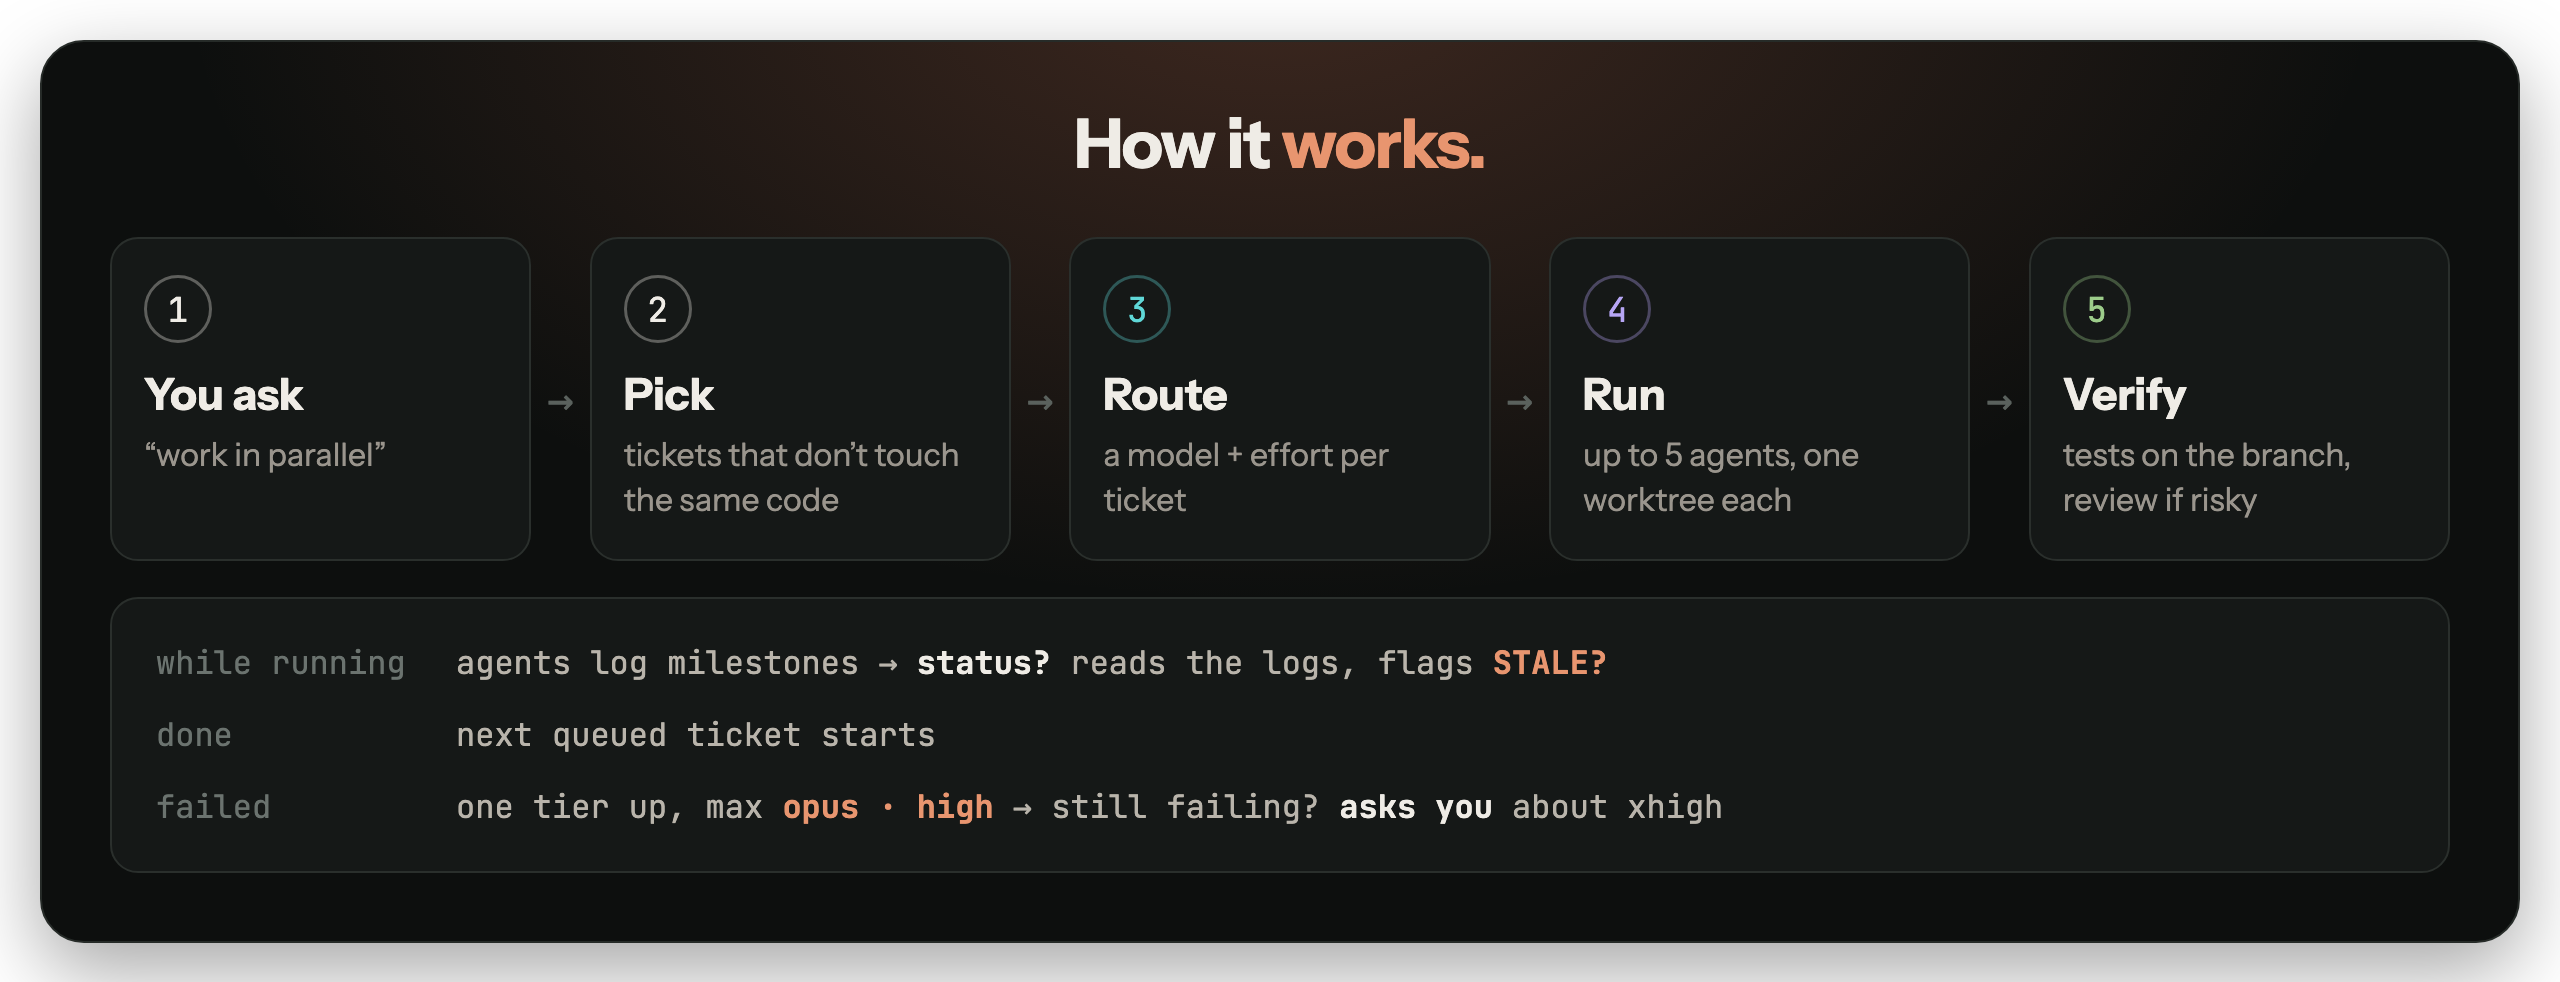
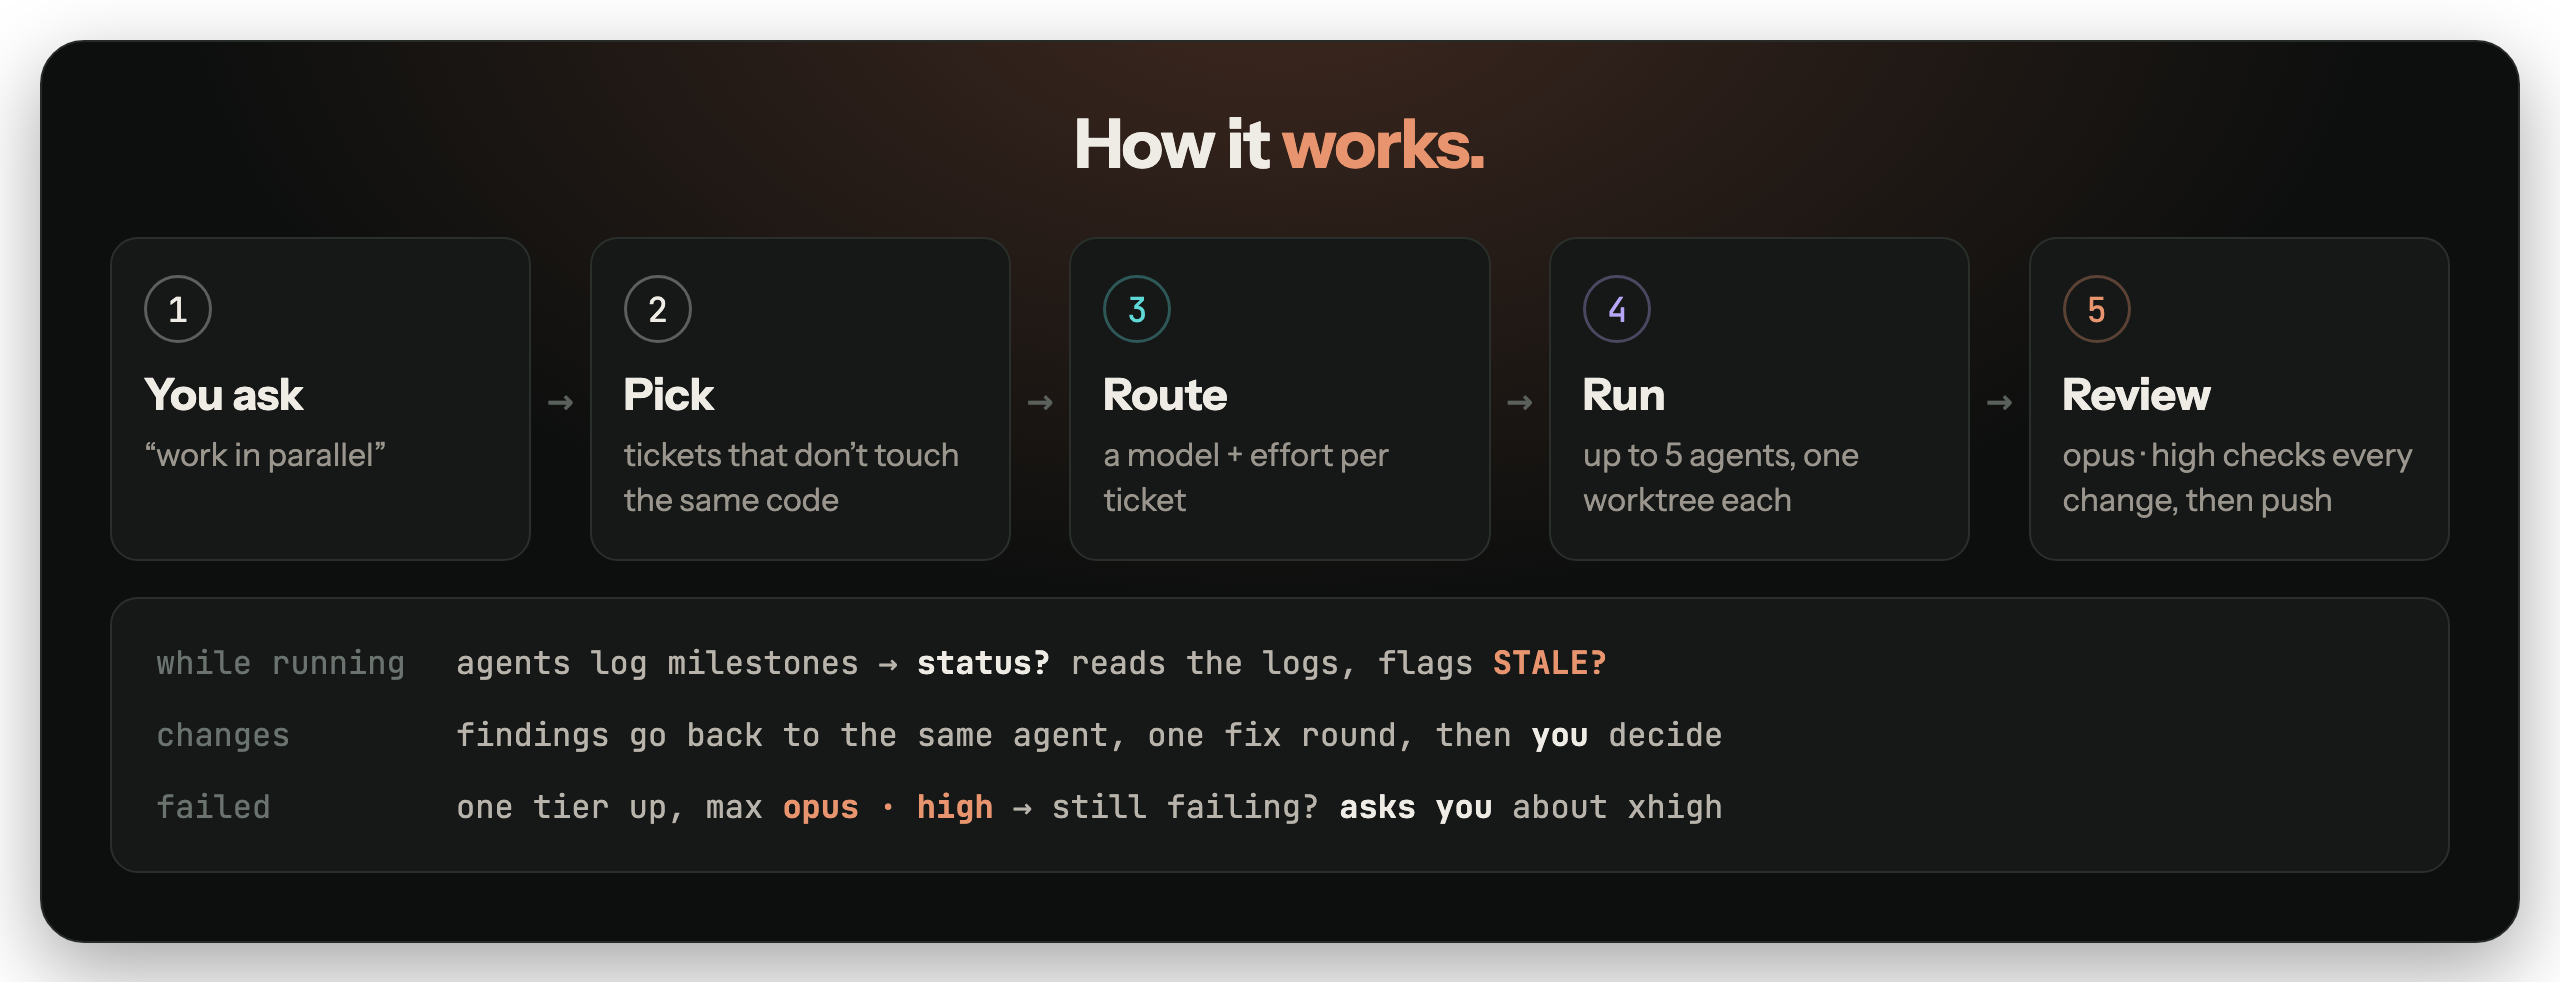
Add opus/high review step and parallel-implementer / parallel-reviewer agent types
- Every code-changing ticket (except haiku-tier) gets a fresh opus/high reviewer
  that sees only the acceptance criteria and the diff
- Findings go back to the original implementer for one fix round; a second
  CHANGES stops and asks the user
- Implementers never push; the main session ships after PASS
- Ships agents/parallel-implementer.md and agents/parallel-reviewer.md (read-only)
- README: review rows, agent types, install step, no release badge

diff --git a/SKILL.md b/SKILL.md
@@ -28,11 +28,12 @@ This skill is your explicit instruction to set `model` and `effort` on every Age
 | Clear spec but tricky logic, many files, or unfamiliar subsystem | `sonnet` | `high` |
 | Ambiguous spec, design/architecture, cross-cutting refactor, security, concurrency, data migration, **unknown root cause** | `opus` | `high` |
 | Already failed once at a lower tier | one tier up (`haiku`→`sonnet`→`opus`, up to `high`) | |
-| Reviewing a finished agent's diff | `sonnet` `high` (`opus` `high` if risky) | |
+| Reviewing a finished agent's diff (see section 5) | `opus` | `high` |
 
 - **`xhigh` and `max` need the user's explicit yes, every time.** They cost several times more tokens, and a failed `opus`/`high` run usually means the ticket is unclear, not that more thinking is needed. Propose it in one line (what failed, what the agent learned, why you think xhigh would help, or what question the user could answer instead). Keep the other tickets moving while you wait. Never escalate past `opus`/`high` on your own.
 - When unsure between two rows, take the higher one. A failed cheap run costs more than one right-sized run.
-- Never use `subagent_type: "fork"` for routed work: forks ignore `model` and `effort`. Use `general-purpose` with a full brief.
+- **Agent types:** implementers use `subagent_type: "parallel-implementer"` and reviewers use `"parallel-reviewer"` (read-only). Both ship in this skill's `agents/` folder. If they aren't in your available agent types, use `general-purpose` with the same briefs, and tell the user once: `mkdir -p ~/.claude/agents && ln -sf <this skill's base dir>/agents/*.md ~/.claude/agents/` (restart Claude Code if that folder is new).
+- Always pass `model` and `effort` on the call: they override the agent file's defaults. Never use `subagent_type: "fork"` for routed work: forks ignore `model` and `effort`.
 
 Before dispatching, show the user the plan as a table:
 
@@ -60,11 +61,11 @@ For each agent, write the log header **before** dispatching it (slug = `<issue>-
 echo "# ticket=#42 model=sonnet effort=medium dispatched=$(date +%H:%M)" > "$ROOT/.parallel-work/agents/42-orders-pagination.log"
 ```
 
-Send all agents of the batch in **one message** (they run in the background automatically), each with `subagent_type: "general-purpose"`, `model`, `effort`, and `isolation: "worktree"` for code-writing agents. Every brief contains these parts, in order:
+Send all agents of the batch in **one message** (they run in the background automatically), each with `subagent_type: "parallel-implementer"`, `model`, `effort`, and `isolation: "worktree"`. Every brief contains these parts, in order:
 
 1. Goal: issue number, title, the acceptance criteria copied from the issue
 2. Context: relevant files, patterns to follow, what is already ruled out, which paths other agents own (hands off)
-3. Done means: tests pass, committed on branch `issue-<n>-<slug>`. Add "push and open a PR (`Closes #<n>`)" only if the user or CLAUDE.md has asked for PRs. Otherwise the branch is reported ready to push.
+3. Done means: tests pass, committed on branch `issue-<n>-<slug>`. Don't push: the main session pushes after review.
 4. The progress-log block below, with the **absolute** log path filled in
 
 ```
@@ -81,8 +82,31 @@ milestones in your final report instead.
 
 - **Status request** ("status?", "how far are they?"): run `bash <this skill's base dir>/scripts/status.sh` from the main checkout (it finds `.parallel-work/agents` via git; an optional argument overrides the dir). Report from its output: one row per agent with model/effort, state, last update, minutes quiet, plus tickets you did inline or that are queued. Never say "probably" about an agent's progress; the log either shows it or it doesn't.
 - **`STALE?`** (no log line for 15+ minutes): check activity with `git -C <worktree> status --short` and `git -C <worktree> diff --stat`. Changes still appearing: report it as working, just not logging. Nothing for 30+ minutes: tell the user and offer to stop it and re-dispatch one tier up.
-- **On each completion notification:** verify the claim yourself (run the tests on its branch, check the PR exists if one was promised), then give a one-line update plus the status table. For `opus`-tier tickets or large diffs, also dispatch a reviewer (routing table, last row) before calling it done. BLOCKED or FAILED: re-route one tier up and re-dispatch with what was learned.
+- **On each completion notification:** run the tests inside its worktree, and check that `git -C <worktree> diff --stat <base>...HEAD` stays within the ticket's scope (`<base>` = the default branch, from `gh repo view --json defaultBranchRef`). If its own report admits it skipped or changed an acceptance criterion, send it straight back with SendMessage; don't spend a review on a known gap. Give a one-line update plus the status table, then go to section 5. BLOCKED or FAILED: re-route one tier up and re-dispatch with what was learned.
 - When a slot frees up, start the next queued ticket (route it first). When the queue is empty and the user asked to continue, go back to step 1.
+
+## 5. Review, then ship
+
+Every code-changing ticket gets a fresh reviewer at **`opus` · `high`**, no matter which tier implemented it. A cheap implementer plus a strong reviewer saves tokens on the long work without saving them on correctness. Skip review only for `haiku`-tier work (docs, typos): after the scope check, ship it as on PASS.
+
+Don't read the diff yourself: that fills your context and you're biased by the brief you wrote. Dispatch it with `subagent_type: "parallel-reviewer"`, `model: "opus"`, `effort: "high"`. The reviewer counts toward the 5-agent cap, gets its own log (`<slug>-review.log`, header `# ticket=#<n>-review model=opus effort=high`), and needs no worktree. Its brief, in order:
+
+```
+REVIEW #<n> <title>. You review; do not edit files.
+Acceptance criteria: <copied from the issue>
+Diff: git -C <ABS_WORKTREE> diff <base>...HEAD   (branch issue-<n>-<slug>)
+Check: acceptance criteria met, correctness bugs, missing or weak tests,
+changes outside the ticket's scope, security and concurrency issues.
+Reply: first line PASS or CHANGES, then at most 10 findings as
+`file:line: problem; why it matters`. Real defects only, no style nits.
+<progress-log block from section 3, with the review log path>
+```
+
+Give the reviewer the acceptance criteria and the diff, **not** the implementer's summary: it should judge the code, not the story.
+
+- **PASS (ship):** if the user or CLAUDE.md asked for pushes or PRs, push the branch and open the PR (`Closes #<n>`). Otherwise report the branch as ready to push. Either way, then `git worktree remove <worktree>` (the branch and its commits stay).
+- **CHANGES:** send the findings to the **original implementer** with SendMessage (it still has its context), and have it fix, commit and report. Its fix-round lines go in the same log (a line after DONE just shows it as running again). Then send the new commits to the **same reviewer** with SendMessage to re-check.
+- **Any CHANGES on the re-check:** stop and tell the user, with the open findings, the unpushed branch, and the options: they clarify, you re-dispatch the implementer one tier up, or they take it over. No third round without their answer.
 
 ## Common Mistakes
 
@@ -94,3 +118,6 @@ milestones in your final report instead.
 | Answering status from memory | Run `status.sh` first |
 | Two agents editing the same module | Run them one after another |
 | Auto-escalating to `xhigh` after a failure | Ask the user first; often the ticket needs clarifying instead |
+| Reading diffs yourself, or letting the implementer self-review | Dispatch the `opus` · `high` reviewer |
+| Passing the implementer's summary to the reviewer | Acceptance criteria and diff only |
+| Pushing or opening a PR before review passes | Implementers never push; you push after PASS |

diff --git a/README.md b/README.md
@@ -17,7 +17,6 @@
 </p>
 
 <p align="center">
-  <a href="https://github.com/DannyKuk/parallel-work/releases/latest"><img src="https://img.shields.io/github/v/release/DannyKuk/parallel-work?style=flat-square&color=d97757&label=release" alt="Latest release"></a>
   <img src="https://img.shields.io/badge/Claude_Code-skill-5fd7d7?style=flat-square" alt="Claude Code skill">
   <a href="LICENSE"><img src="https://img.shields.io/github/license/DannyKuk/parallel-work?style=flat-square&color=b7a6f5" alt="MIT license"></a>
 </p>
@@ -32,6 +31,7 @@ https://github.com/user-attachments/assets/1b3c2bf0-adda-4631-a1ca-50f1383e6352
 | **A deadlock with no known cause** | The same as the docs ticket | `opus · high` |
 | **"How far are the agents?"** | Nobody knows until they finish | A table from the agents' own logs |
 | **An agent that went quiet** | Goes unnoticed | Flagged `STALE?` after 15 minutes |
+| **Code review** | The agent checks its own work, if anyone does | A fresh `opus · high` reviewer on every code change |
 | **Escalating to `xhigh`** | Up to the session | Only with your yes |
 
 ## Routing
@@ -47,8 +47,9 @@ Before dispatching anything, the main session picks a model and effort level for
 | Clear spec, but tricky logic or many files | `sonnet · high` |
 | Ambiguous spec, architecture, security, concurrency, unknown root cause | `opus · high` |
 | Failed once at a lower tier | one tier up, at most `opus · high` |
+| **Reviewing any finished code change** | `opus · high` |
 
-When it's unsure between two rows, it takes the higher one, because a failed cheap run costs more than one right-sized run. Tickets that touch the same code, or build on each other, go to one agent in order.
+When it's unsure between two rows, it takes the higher one, because a failed cheap run costs more than one right-sized run. Reviews always run on `opus · high`: the cheap model does the long work, and the strong one checks it. Tickets that touch the same code, or build on each other, go to one agent in order.
 
 ## Status
 
@@ -65,8 +66,17 @@ An agent with no log line for 15 minutes shows as `STALE?`. The main session the
 - **`xhigh` and `max` need your yes, every time.** When an `opus · high` run fails, Claude says what it learned and asks whether to spend several times the tokens, or whether you'd rather clarify the ticket. It keeps the other tickets moving while it waits.
 - **At most 5 subagents at once**, unless you say otherwise ("use 8 subagents", "as many as possible"). The rest are queued and start as slots free up.
 - **Each agent gets its own git worktree**, so parallel edits never collide.
-- **Agents push and open PRs only if you've asked for that**, in the session or in `CLAUDE.md`. Otherwise they report a branch ready to push.
-- **Finished work is checked before it's called done.** Claude runs the tests on the agent's branch, and big or risky diffs get a separate review agent.
+- **Every code change gets an `opus · high` review before it ships.** The reviewer sees only the acceptance criteria and the diff, not the implementer's explanation. Its findings go back to the original agent for one fix round, and if the second review still fails, you hear about it.
+- **Nothing is pushed before the review passes.** Implementers only commit. The main session pushes after the review, and opens a PR only if you've asked for PRs (in the session or in `CLAUDE.md`).
+
+## Agent types
+
+The skill ships two subagent types, so you can see in the UI who's doing what:
+
+| Agent | Does | Defaults | Tools |
+|---|---|---|---|
+| [`parallel-implementer`](agents/parallel-implementer.md) | One ticket, in its own git worktree. Commits, never pushes. | `sonnet · medium`, overridden per ticket | All |
+| [`parallel-reviewer`](agents/parallel-reviewer.md) | Checks a finished diff against the ticket. Replies PASS or CHANGES. | `opus · high` | Read, Grep, Glob, Bash (no editing) |
 
 ## How it works
 
@@ -76,13 +86,16 @@ An agent with no log line for 15 minutes shows as `STALE?`. The main session the
 
 Ask Claude Code:
 
-> Install the skill from https://github.com/DannyKuk/parallel-work
+> Install the skill from https://github.com/DannyKuk/parallel-work, including its agents
 
-Or clone it into your skills folder:
+Or clone it into your skills folder and link the two agent types:
 
 ```sh
 git clone https://github.com/DannyKuk/parallel-work ~/.claude/skills/parallel-work
+mkdir -p ~/.claude/agents && ln -sf ~/.claude/skills/parallel-work/agents/*.md ~/.claude/agents/
 ```
+
+Restart Claude Code if `~/.claude/agents/` didn't exist before. Without the agents, the skill still works using `general-purpose` subagents.
 
 Update with `git -C ~/.claude/skills/parallel-work pull`. New sessions pick up changes; running ones keep the version they started with.
 

diff --git a/agents/parallel-implementer.md b/agents/parallel-implementer.md
@@ -1,0 +1,22 @@
+---
+name: parallel-implementer
+description: Implements one GitHub ticket in its own git worktree, dispatched by the parallel-work skill. The main session sets model and effort per ticket and passes the goal, context and progress-log path in the brief.
+model: sonnet
+effort: medium
+isolation: worktree
+color: cyan
+---
+
+You implement exactly one ticket, described in your brief, inside your own git worktree. Other agents are working on other tickets in parallel, so stay inside the files your ticket needs and leave paths the brief says other agents own alone.
+
+How you work:
+
+1. Create or switch to the branch the brief names (`issue-<n>-<slug>`). Commit your work there in small, meaningful commits.
+2. Follow the repo's existing patterns and conventions. Read before you write.
+3. "Done" means every acceptance criterion in the brief is met and the tests pass. If you can't meet one as written, say so plainly in your report; don't quietly substitute your own idea.
+4. **Never push and never open a PR.** The main session pushes after an independent review.
+5. Keep the progress log the brief asks for: one line per milestone, at least every ~10 minutes, ending in DONE, BLOCKED or FAILED.
+
+Your final report, in this order: the branch name, what you changed (files), the test command you ran with its result, and any acceptance criterion you could not meet or interpreted, with the reason. Keep it short; the reviewer reads the diff, not your report.
+
+If the main session sends you review findings later, fix exactly those, commit, append to the same progress log, and report again in the same format.

diff --git a/agents/parallel-reviewer.md b/agents/parallel-reviewer.md
@@ -1,0 +1,36 @@
+---
+name: parallel-reviewer
+description: Reviews one finished ticket's diff against its acceptance criteria for the parallel-work skill. Read-only, returns PASS or CHANGES with file:line findings. Runs on opus at high effort by default.
+tools: Read, Grep, Glob, Bash
+model: opus
+effort: high
+color: orange
+---
+
+You review one finished ticket. You never fix anything: **do not create, edit or delete files**, and don't commit, push, check out or reset anything. Use Bash only to read (`git diff`, `git log`, `git show`), to run the test suite, and to append to your progress log.
+
+Your brief gives you the acceptance criteria and the command to see the diff. You deliberately don't get the implementer's explanation: judge the code, not the story.
+
+Check, in this order:
+
+1. Every acceptance criterion is met exactly as written. A "friendlier" interpretation of a criterion is a finding.
+2. Correctness: bugs, unhandled edge cases, broken error paths.
+3. Tests: they exist for the new behavior, would fail without the change, and pass now (run them).
+4. Scope: changes outside what the ticket needs.
+5. Security and concurrency problems, if the change touches those areas.
+
+Reply format, nothing before it:
+
+```
+PASS
+```
+or
+```
+CHANGES
+file:line: problem; why it matters
+...
+```
+
+At most 10 findings, real defects only, no style nits. If you're asked to re-check after a fix, review the new commits against your earlier findings and the criteria, and reply in the same format.
+
+Keep the progress log the brief asks for, ending in DONE with your verdict.
